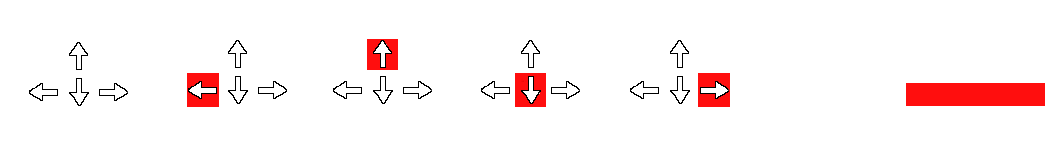
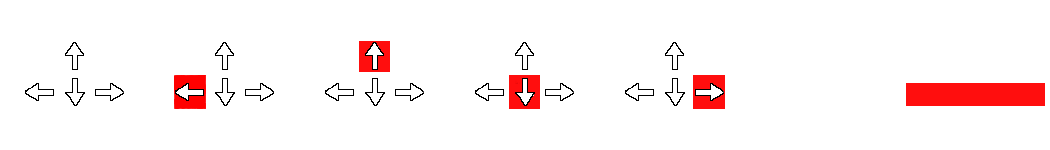
New stuff

diff --git a/src/animation/AnimationCrabThrowTrash.java b/src/animation/AnimationCrabThrowTrash.java
@@ -34,7 +34,9 @@ public class AnimationCrabThrowTrash extends Character{
 	private SpriteSheet sprites;
 	private int spriteNum=1;
 	private int spriteTime=0;
-	
+	private SpriteSheet keyboard;
+	private int keyNumBottom=1;
+	private int spaceKeyBottom=6;
 	private Trash attachedTrash;
 	private boolean isHoldingTrash;
 	private boolean drawPowerBar=false;
@@ -71,9 +73,10 @@ public class AnimationCrabThrowTrash extends Character{
 	 * loads the crab image used to represent the Crab character
 	 */
 	private void loadRes(){
-		BufferedImage crabs = null;
+		BufferedImage crabs=null,keyboards = null;
 		try {
 			crabs = Util.loadImage("/crabsprite(150x150)ANIMATION.png", this);
+			keyboards=Util.loadImage("/Keyboard.png", this);
 			greenArrow = Util.loadImage("/greenarrow.png", this);
 		} catch (IOException e) {
 			// TODO Auto-generated catch block
@@ -81,7 +84,7 @@ public class AnimationCrabThrowTrash extends Character{
 		}
 		
 		sprites = new SpriteSheet(crabs, 1, 4, 150, 150);
-		
+		keyboard = new SpriteSheet(keyboards,1,7,150,150);
 	}
 	
 
@@ -211,6 +214,8 @@ public class AnimationCrabThrowTrash extends Character{
 	private void executeAnimationSequence() {
 		if(state==MOVE_TOWARDS_TRASH){
 			leftPressed=true;
+			keyNumBottom=2;
+			spaceKeyBottom=6;
 			if(isTouchingTrash(trashToThrow)){
 				holdTrash(trashToThrow);
 				setIsHoldingTrash(true);
@@ -225,6 +230,8 @@ public class AnimationCrabThrowTrash extends Character{
 		}
 		else if (state==CHARGE_UP){
 			spacePressed=true;
+			keyNumBottom=1;
+			spaceKeyBottom=7;
 			chargeTime++;
 			
 			if(chargeTime>60 && calculatePowerIfThrown()==1.0){
@@ -232,6 +239,8 @@ public class AnimationCrabThrowTrash extends Character{
 				state = THROW_TRASH;
 			}
 		}else if (state == THROW_TRASH){
+			keyNumBottom=1;
+			spaceKeyBottom=6;
 			if(attachedTrash!=null)
 				throwAttachedTrash();
 			
@@ -240,6 +249,8 @@ public class AnimationCrabThrowTrash extends Character{
 		else if (state == MOVE_TOWARDS_CAN){
 			if(xPos<900){
 				rightPressed=true;
+				keyNumBottom=5;
+				spaceKeyBottom=6;
 			}else{
 				rightPressed=false;
 				spriteNum=1;
@@ -374,6 +385,10 @@ public class AnimationCrabThrowTrash extends Character{
 		renderThrownTrash(g);
 		trashToThrow.render(g);
 		trashCan.renderOverlay(g);
+		
+		g.drawImage(keyboard.getSprite(1, keyNumBottom), -400,550,500,500,null);
+		
+		g.drawImage(keyboard.getSprite(1, spaceKeyBottom), 200, 550, 500,500,null);
 		
 	}
 	

diff --git a/src/animation/AnimationCrabPIckUpTrash.java b/src/animation/AnimationCrabPIckUpTrash.java
@@ -32,6 +32,9 @@ public class AnimationCrabPIckUpTrash extends Character{
 	private static final long serialVersionUID = 2918553662290310728L;	
 	
 	private SpriteSheet sprites;
+	private SpriteSheet keyboard;
+	private int keyNumTop=1;
+	
 	private int spriteNum=1;
 	private int spriteTime=0;
 	
@@ -73,8 +76,10 @@ public class AnimationCrabPIckUpTrash extends Character{
 	 */
 	private void loadRes(){
 		BufferedImage crabs = null;
+		BufferedImage keyboards = null;
 		try {
 			crabs = Util.loadImage("/crabsprite(150x150)ANIMATION.png", this);
+			keyboards=Util.loadImage("/Keyboard.png", this);
 			greenArrow = Util.loadImage("/greenarrow.png", this);
 		} catch (IOException e) {
 			// TODO Auto-generated catch block
@@ -82,6 +87,8 @@ public class AnimationCrabPIckUpTrash extends Character{
 		}
 		
 		sprites = new SpriteSheet(crabs, 1, 4, 150, 150);
+		keyboard = new SpriteSheet(keyboards, 1, 7, 150, 150);
+		
 		
 	}
 	
@@ -211,7 +218,9 @@ public class AnimationCrabPIckUpTrash extends Character{
 			
 			if(waitTime>60){
 				leftPressed=true;
+				keyNumTop=2;
 			}else{
+				keyNumTop=1;
 				waitTime++;
 			}
 			if(xPos<Util.getDISTANCE_TO_EDGE()-1200){
@@ -224,6 +233,7 @@ public class AnimationCrabPIckUpTrash extends Character{
 		}
 		else if(state==MOVE_TOWARDS_TRASH_RIGHT){
 			rightPressed=true;
+			keyNumTop=5;
 			if(xPos>Util.getDISTANCE_TO_EDGE()-700){
 				if(attachedTrash==null){
 					attachedTrash=trash2;
@@ -232,6 +242,7 @@ public class AnimationCrabPIckUpTrash extends Character{
 				else{ attachedTrash=null;
 					trash2.setY(trash2.getY()+230);
 					state=WIDE_EYES;
+					keyNumTop=1;
 				
 				}
 				holdTrash();
@@ -385,6 +396,11 @@ public class AnimationCrabPIckUpTrash extends Character{
 		
 		renderThrownTrash(g);
 		trash2.render(g);
+		
+		g.drawImage(keyboard.getSprite(1, keyNumTop), 150,-800,500,500,null);
+		
+	
+		
 		
 	}
 	

diff --git a/src/animation/CrabSaveAnimation.java b/src/animation/CrabSaveAnimation.java
@@ -30,10 +30,10 @@ public class CrabSaveAnimation extends Animation{
 	}
 	private void init() throws IOException{
 		slides=new ArrayList<Slide>();
-		slides.add(new Slide("/Black.png", 1));
-		slides.add(new Slide("/Game2AnimationSlide1.png", 5));
-		slides.add(new Slide("/Game2AnimationSlide2.png", 5));
-		slides.add(new Slide("/Game2AnimationInstructionSlide1.png", 7));
+//		slides.add(new Slide("/Black.png", 1));
+//		slides.add(new Slide("/Game2AnimationSlide1.png", 5));
+//		slides.add(new Slide("/Game2AnimationSlide2.png", 5));
+//		slides.add(new Slide("/Game2AnimationInstructionSlide1.png", 7));
 		slides.add(new Slide("/Game2AnimationInstructionSlide2.png", 4){{
 			setFinalSlide(true);
 		}});
